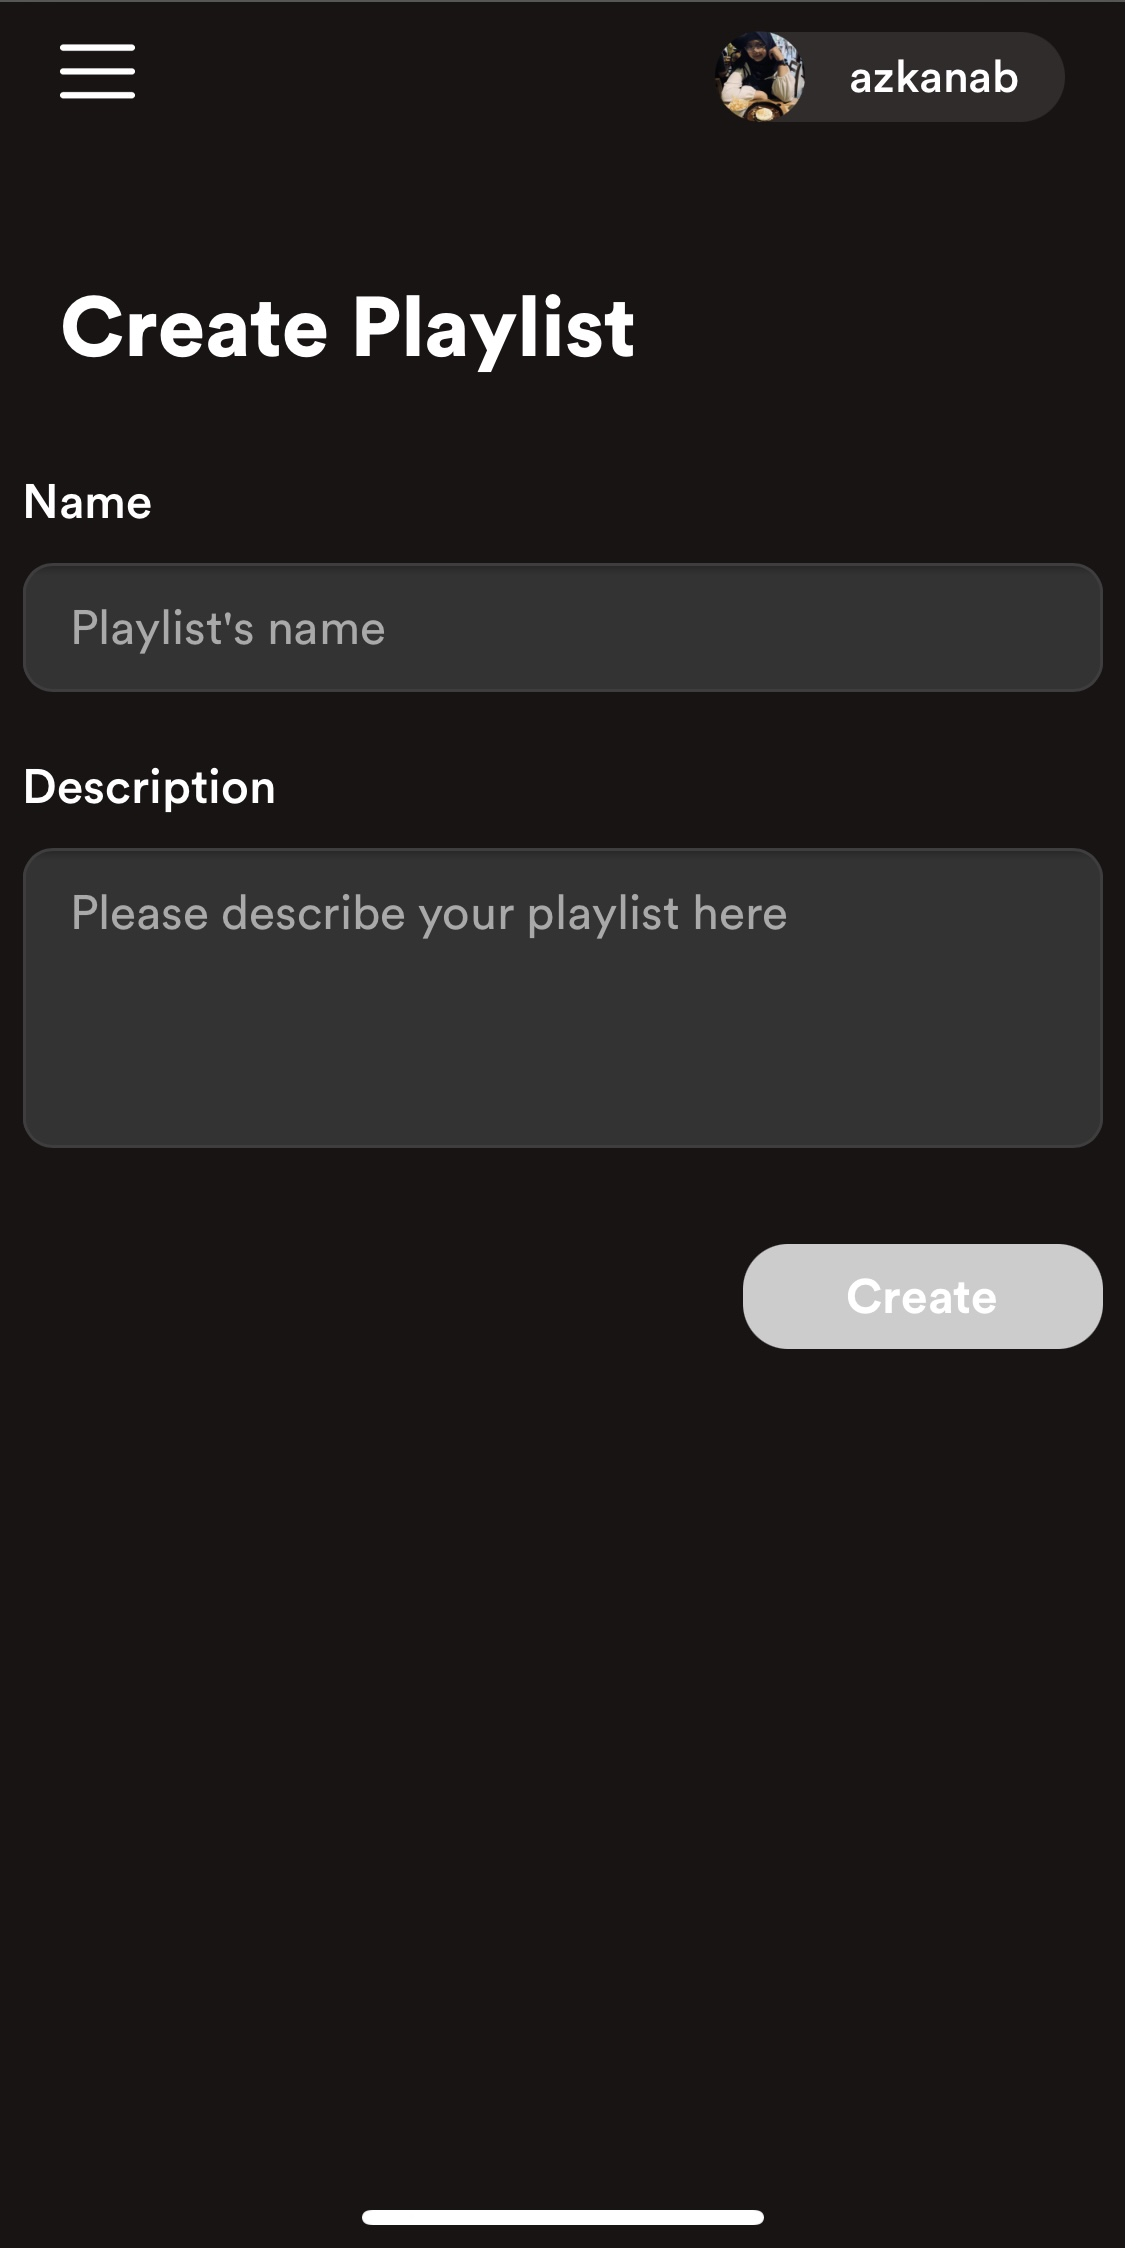
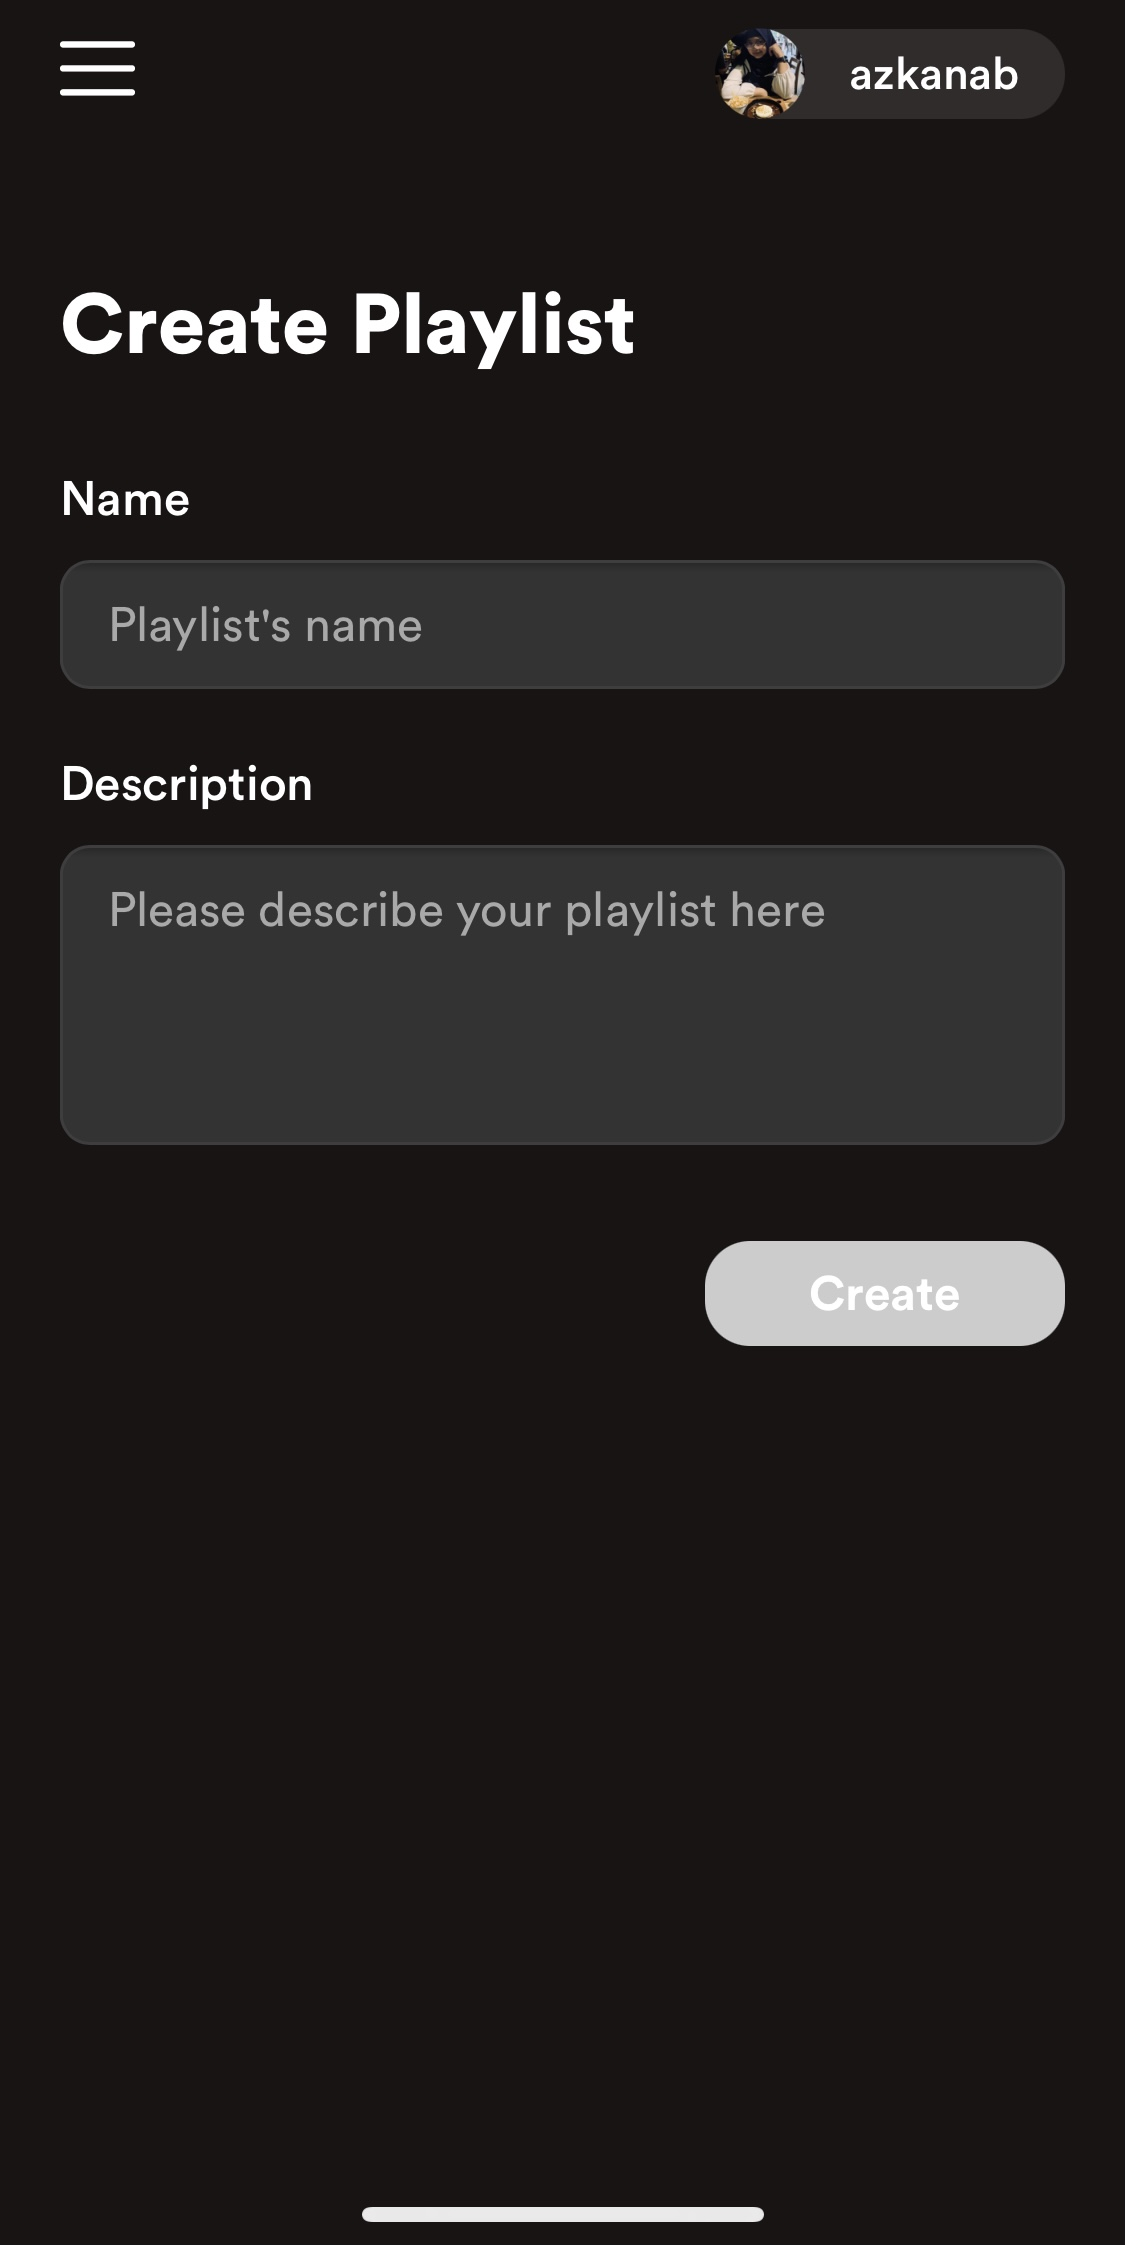
Add more padding in create playlist page and change the update on the readme preview

diff --git a/src/route/index.js b/src/route/index.js
@@ -15,7 +15,7 @@ export default function AppRouter() {
             <Route exact path='/callback' component={Loading}></Route>
             <Route exact path='/login' component={Login}></Route>
             <Fragment>
-                <div className="page-container-home">
+                <div className="pages">
                     <PrivateRoute exact path="/" component={Home} />
                     <PrivateRoute exact path="/my-playlist" component={MyPlaylist} />
                     <Route exact path="/my-playlist/:playlistId" component={PlaylistDetail} />

diff --git a/src/pages/CreatePlaylist/index.js b/src/pages/CreatePlaylist/index.js
@@ -173,7 +173,7 @@ export default function CreatePlaylist() {
     }, [form])
 
     return (
-        <div>
+        <div className="create-playlist">
             {showSuccessModal &&
             <div className="create-playlist__modal">
                 <div className="create-playlist__modal-content">

diff --git a/src/styles/Main/Main.css b/src/styles/Main/Main.css
@@ -1,10 +1,10 @@
-.page-container-home {
+.pages {
     width: calc(100% - 200px);
     margin-left: 200px;
 }
 
 @media screen and (max-width: 950px) {
-    .page-container-home {
+    .pages {
         width: 100%;
         margin-left: 0px;
     }

diff --git a/src/styles/common/FormInput.css b/src/styles/common/FormInput.css
@@ -85,3 +85,9 @@
     height: 100px;
     margin-bottom: 3px;
 }
+
+@media screen and (max-width: 375px) {
+    .form-input__page-container {
+        padding: 0 12.5px;
+    }
+}

diff --git a/src/styles/common/Text.css b/src/styles/common/Text.css
@@ -88,7 +88,7 @@ p {
 	font-family: 'Circular-Regular';
 	font-size: 16px;
 	color: white;
-	margin-top: 20px;
+	margin-top: 14px;
 }
 
 .track-row__song-title {

diff --git a/src/styles/common/Form.css b/src/styles/common/Form.css
@@ -67,4 +67,8 @@
     .form__page {
         margin: 0px 12.5px;
     }
+
+    .common__page-button-wrapper {
+        margin: 0 12.5px;
+    }
 }
